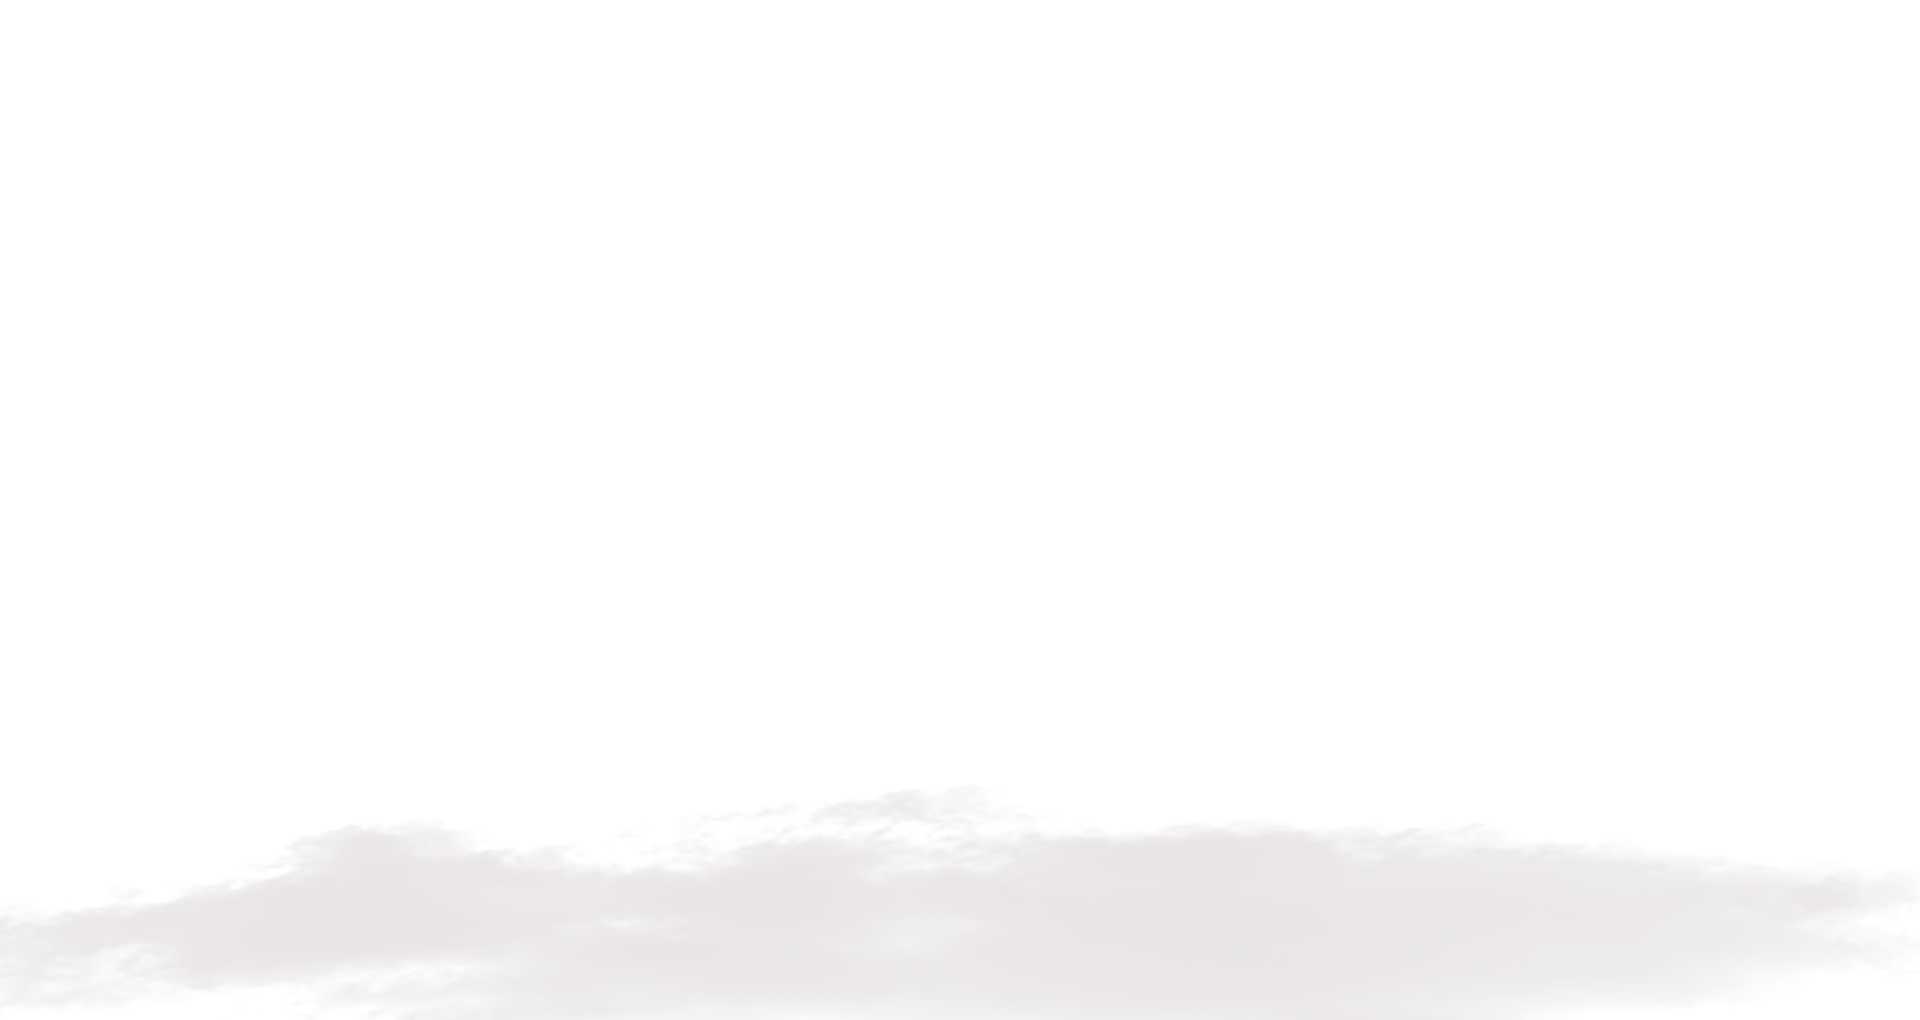
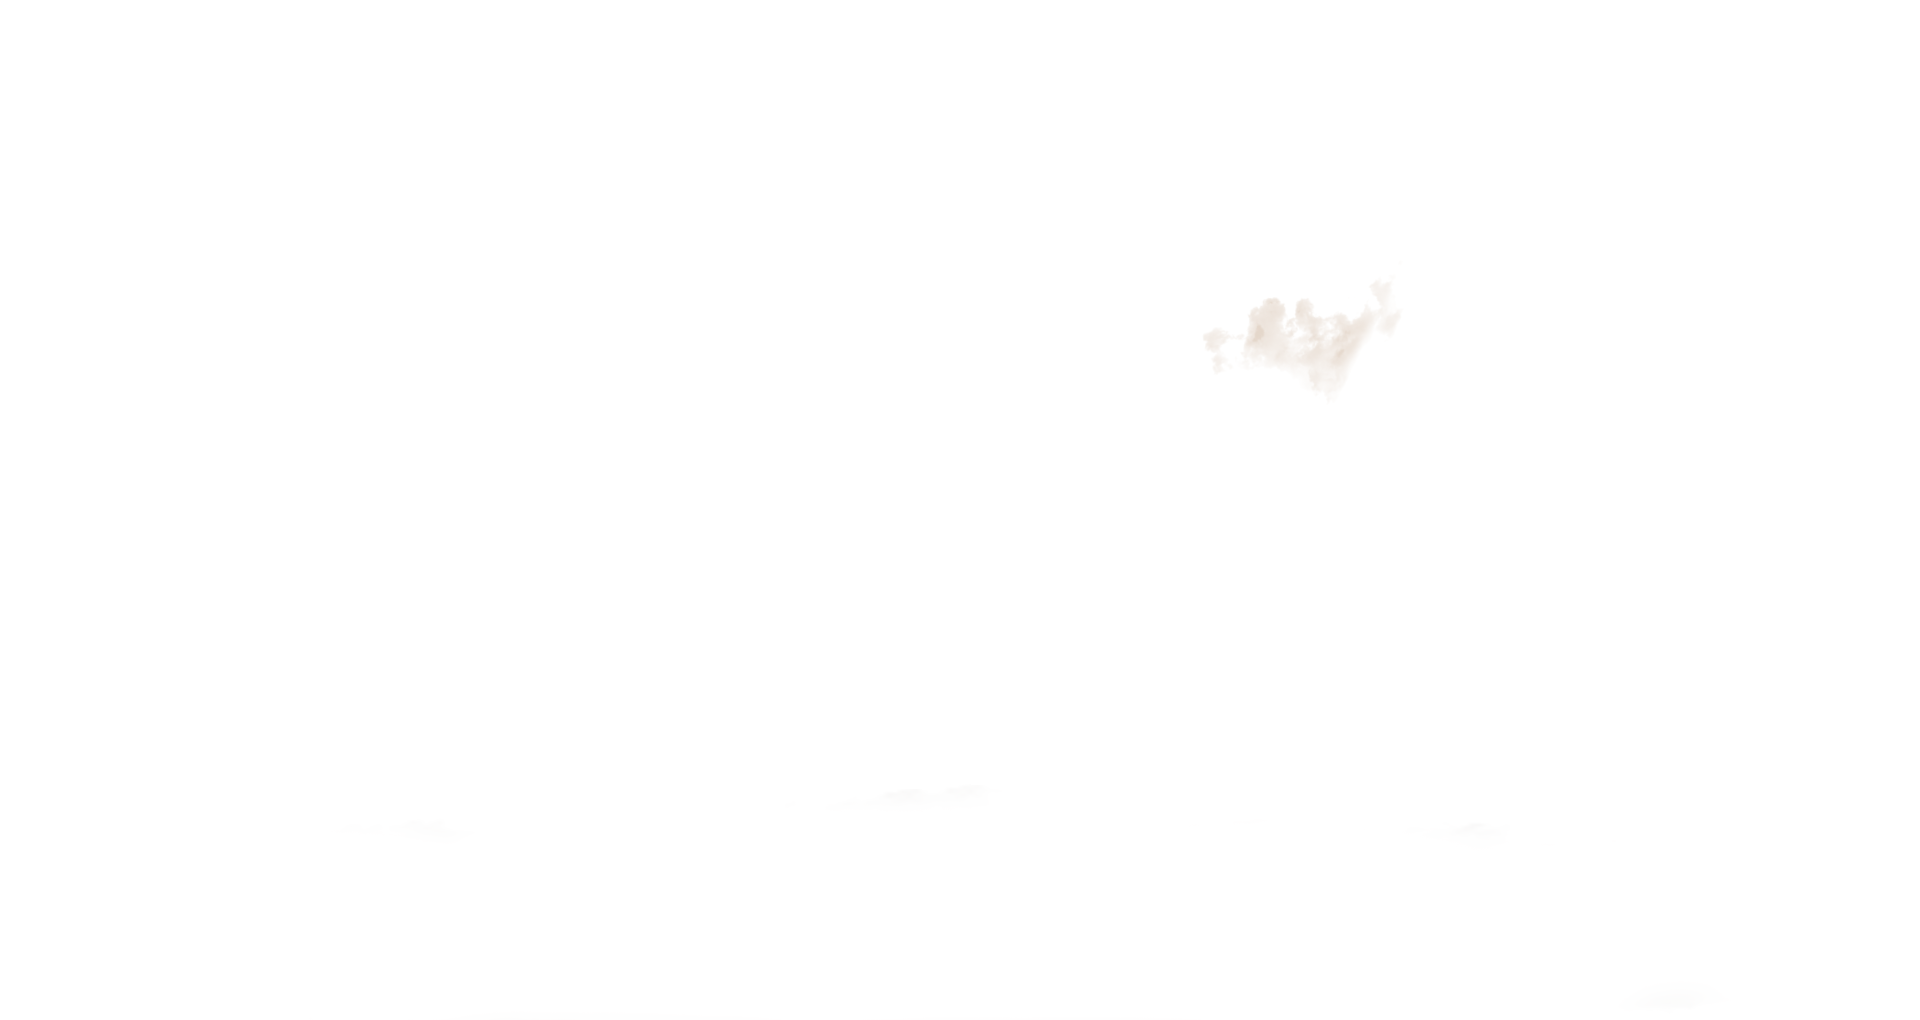
sửa lại mây

Changed region(s): [[0.3125, 0.8206, 0.7812, 0.9725], [0.0938, 0.8206, 0.2812, 0.9422], [0.625, 0.2735, 0.7188, 0.3647]]

diff --git a/index.html b/index.html
@@ -235,10 +235,10 @@
                 <div class="home">
                     <div class="parallax home__parallax home__parallax-img1 nen" data-rellax-speed="-19" >
                     </div>
-                    <div class="parallax home__parallax home__parallax-img2 may1" data-rellax-speed="-18" ></div>
-                    <div class="parallax home__parallax home__parallax-img3 may2" data-rellax-speed="-16" ></div>
+                    <div class="parallax home__parallax home__parallax-img2 may1" data-rellax-speed="-17" ></div>
+                    <div class="parallax home__parallax home__parallax-img3 may2" data-rellax-speed="-15.5" ></div>
                  
-                    <div class="parallax home__parallax home__parallax-img4 may3" data-rellax-speed="-13" >
+                    <div class="parallax home__parallax home__parallax-img4 may3" data-rellax-speed="-15" >
                        
                     </div>
                     <div class="parallax home__parallax home__parallax-img5 maybay" data-rellax-speed="-8.8" >
@@ -250,7 +250,7 @@
             
                 
 
-                    <h1 class="parallax home__title" data-rellax-speed="-7.5"  >GL travel </h1>
+                    <h1 class="parallax home__title" data-rellax-speed="-9"  >GL travel </h1>
                    
                     
                     

diff --git a/scss/styles.css b/scss/styles.css
@@ -397,7 +397,7 @@ img {
 }
 
 .home__title {
-  top: 35%;
+  top: 17%;
   left:3%;
 }
 
@@ -979,8 +979,8 @@ display: none;
    height:500px;
  }
 .home__title{
-  top:30%;
-  left:35%;
+  top:15%;
+  left:30%;
 
 }
 .header2{
